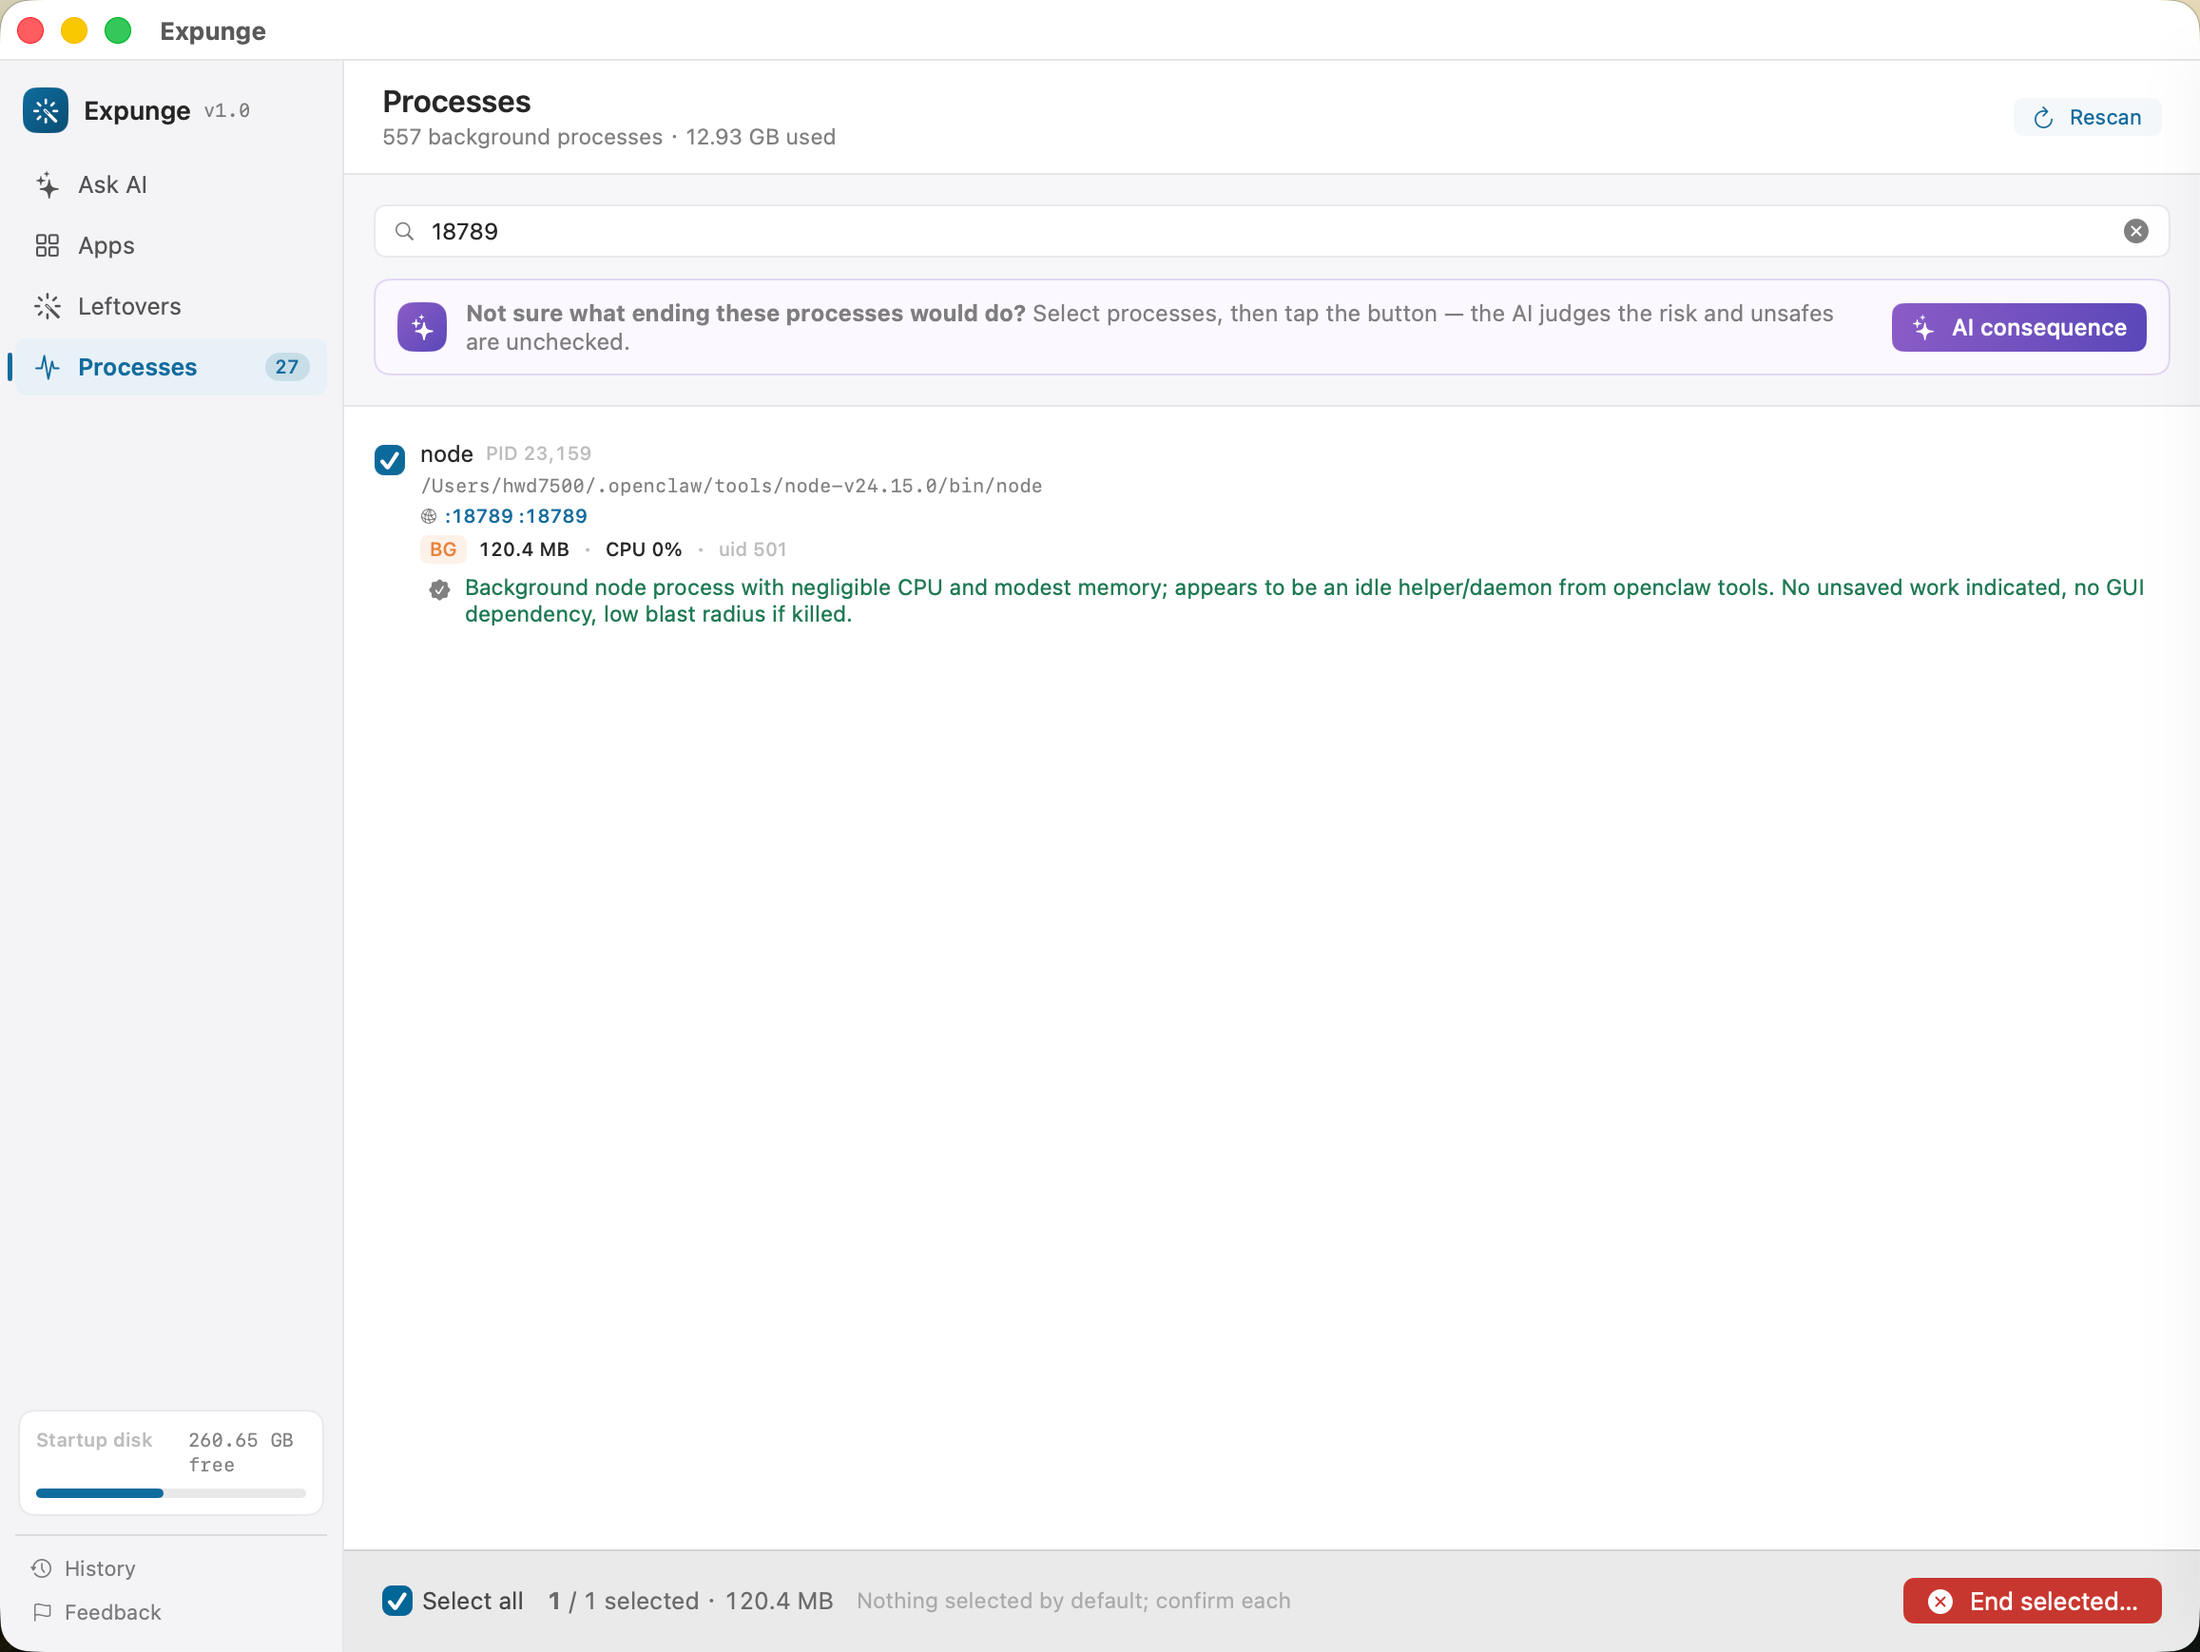
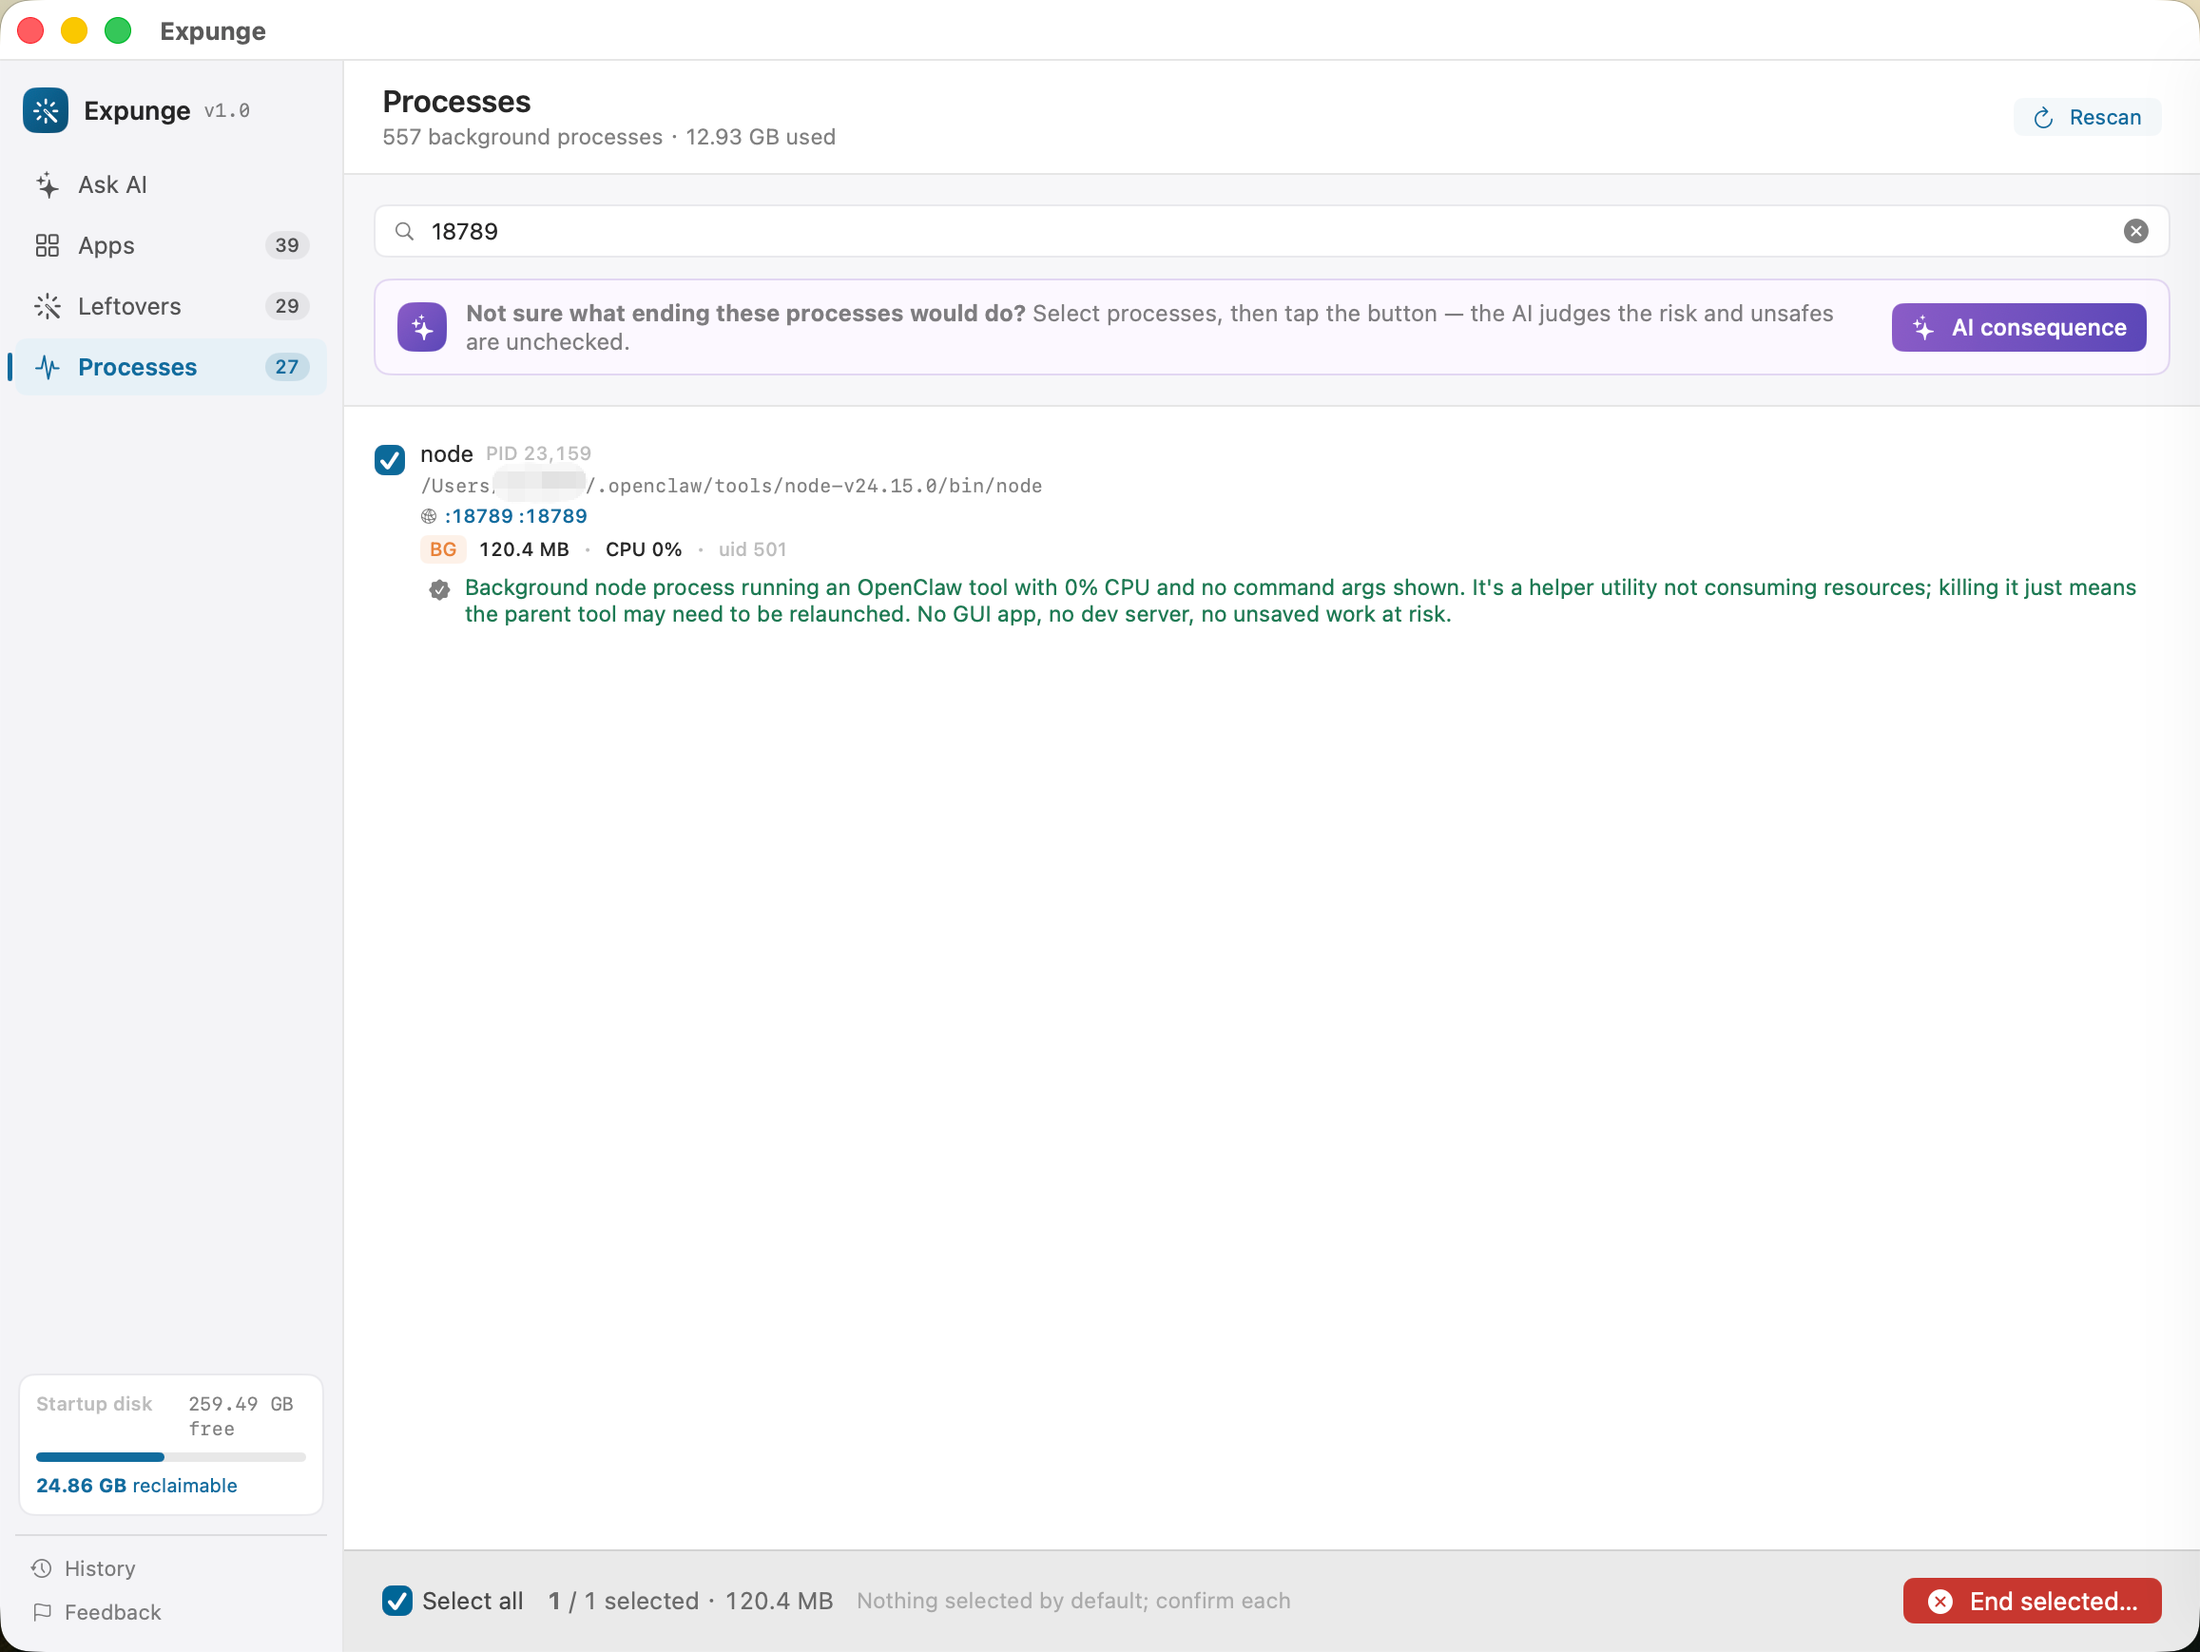
修复问 AI 模型下拉不显示与斜杠面板过高/右侧空白问题

Changed region(s): [[0.28, 0.3418, 0.9646, 0.3728], [0.0, 0.8389, 0.1245, 0.9321], [0.2489, 0.2796, 0.28, 0.3107]]

diff --git a/Sources/Expunge/UI/AskAIView.swift b/Sources/Expunge/UI/AskAIView.swift
@@ -124,15 +124,22 @@ struct AskAIView: View {
                 .help(L10n.t("点此去配置模型（需要 API Key）", "Tap to configure a model (API key required)"))
             } else {
                 Menu {
-                    Picker(selection: Binding<UUID?>(
-                        get: { state.activeConfig?.id },
-                        set: { state.modelStore.activeID = $0 }
-                    )) {
-                        ForEach(state.modelStore.selectable) { p in
-                            Text(ModelConfigStore.displayName(p)).tag(p.id as UUID?)
+                    ForEach(state.modelStore.selectable) { p in
+                        Button {
+                            state.modelStore.activeID = p.id
+                        } label: {
+                            HStack(spacing: 6) {
+                                Text(ModelConfigStore.displayName(p))
+                                    .lineLimit(1)
+                                Spacer(minLength: 0)
+                                if state.activeConfig?.id == p.id {
+                                    Image(systemName: "checkmark")
+                                        .font(.system(size: 10, weight: .semibold))
+                                        .foregroundStyle(.secondary)
+                                }
+                            }
                         }
-                    } label: { EmptyView() }
-                    .pickerStyle(.inline)
+                    }
 
                     Divider()
 
@@ -705,8 +712,8 @@ private struct SlashPalette: View {
                 }
             }
         }
-        // 最多显示约 7 行，超出的可滚动；内容少时按内容高度收缩。
-        .frame(minWidth: 250, maxWidth: 250, maxHeight: 200)
+        // 默认显示约 3 个命令（超出需滚动），宽度随内容伸缩，row 内用 Spacer 铺满。
+        .frame(minWidth: 220, maxWidth: 280, maxHeight: 130)
         .background(Theme.bgSurface, in: RoundedRectangle(cornerRadius: 10))
         .overlay(RoundedRectangle(cornerRadius: 10).stroke(Theme.divider, lineWidth: 1))
         .shadow(color: .black.opacity(0.12), radius: 12, y: 4)
@@ -725,6 +732,7 @@ private struct SlashPalette: View {
                     .font(.system(size: 10.5))
                     .foregroundStyle(.secondary)
             }
+            Spacer(minLength: 0)
         }
         .padding(.horizontal, 10)
         .padding(.vertical, 7)
